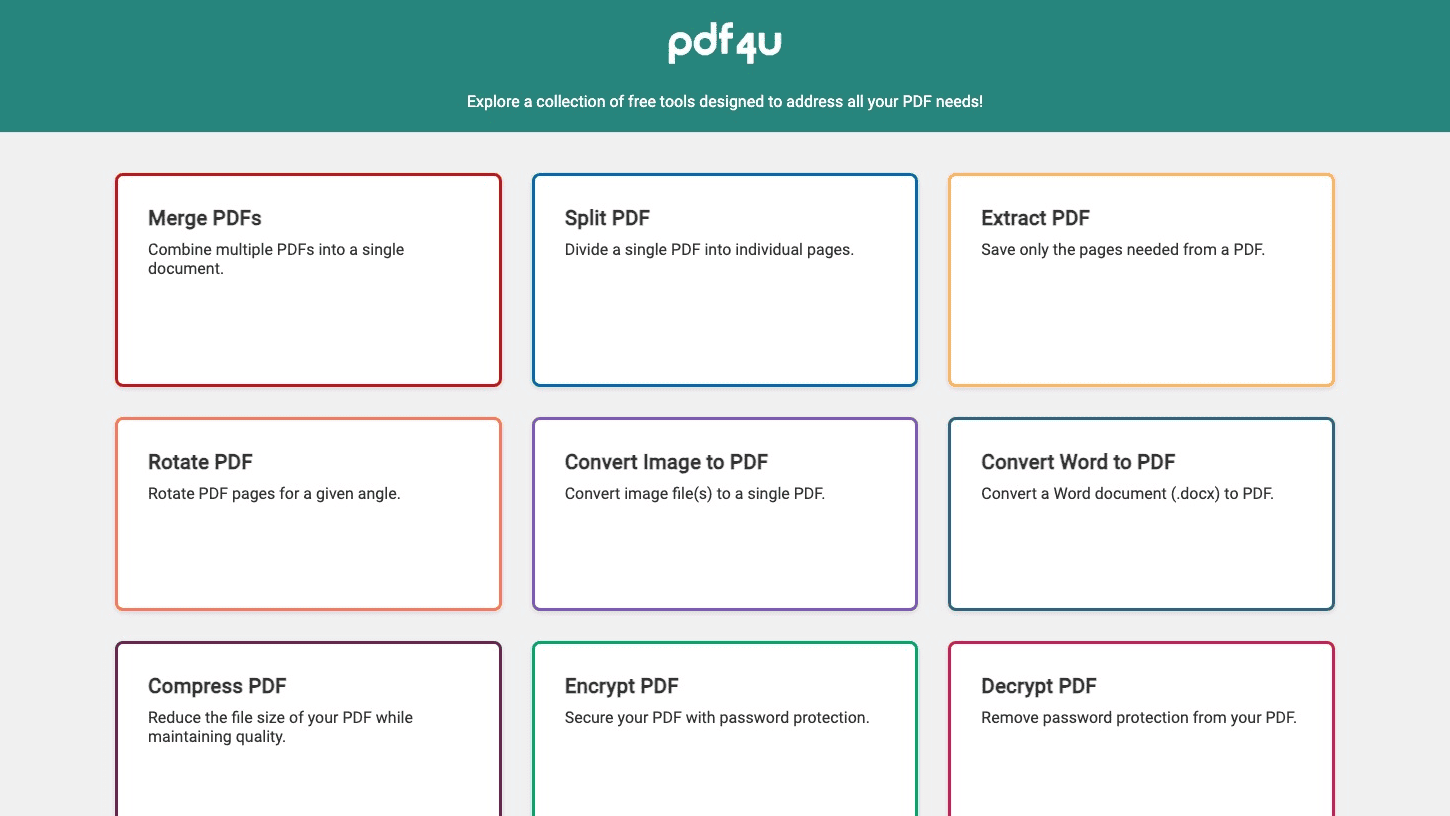
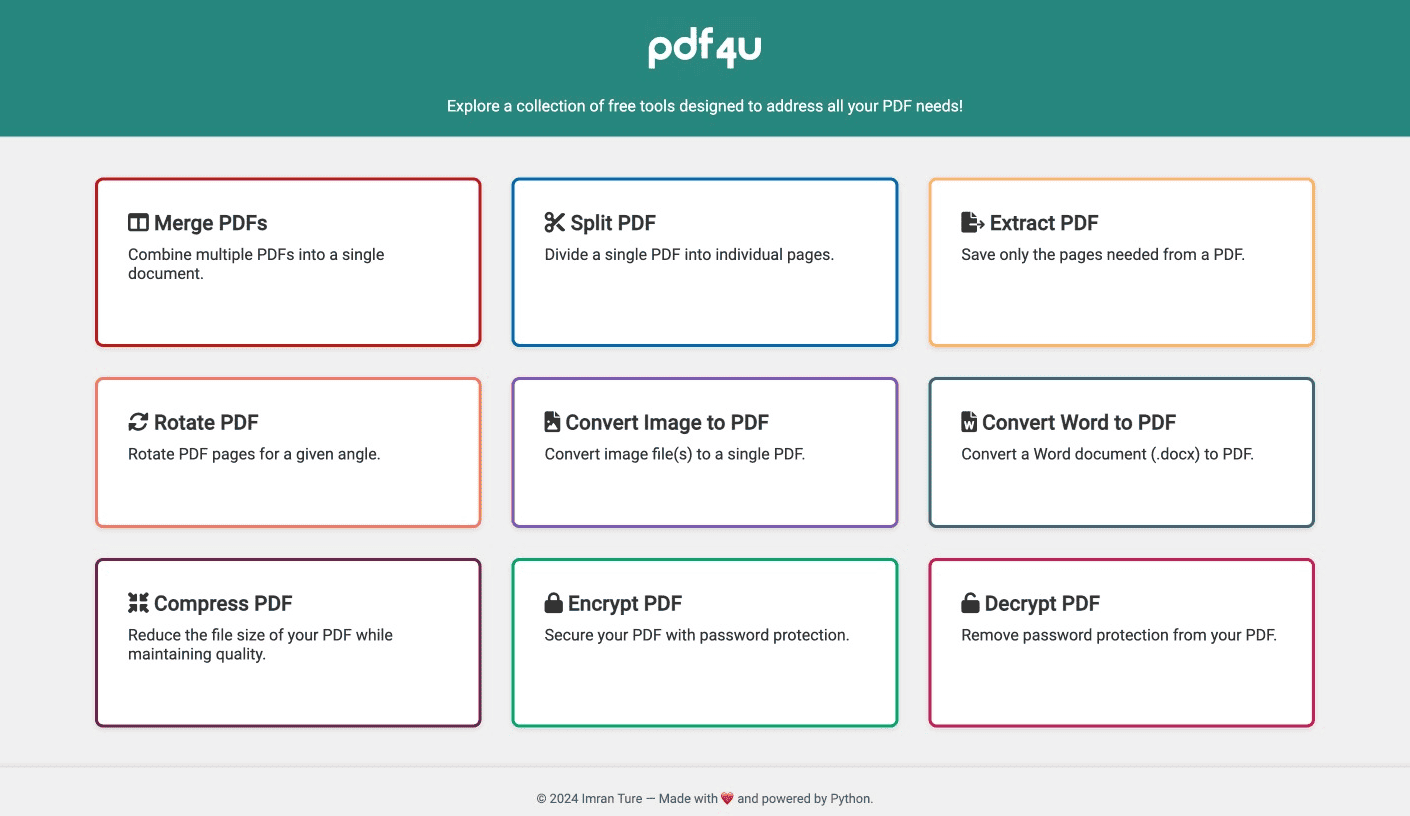
Made minor changes
- Resized images based on the screen sizes.
- Updated pdf4u screenshot image.

Changed region(s): [[0.0, 0.0919, 1.0, 1.0], [0.4369, 0.0306, 0.5617, 0.0919]]

diff --git a/js/scripts.min.js b/js/scripts.min.js
@@ -1,1 +1,1 @@
-function copyURI(e){e.preventDefault();const t=e.target.closest(".email"),i=t.querySelector("span"),a=document.createElement("textarea");a.innerHTML=t.getAttribute("href").replace("mailto:","");const n=a.value;navigator.clipboard.writeText(n).then(()=>{t.classList.add("clicked"),i.classList.add("hidden"),t.style.setProperty("--before-content",'"Copied!"'),setTimeout(()=>{t.classList.remove("clicked"),i.classList.remove("hidden"),t.style.removeProperty("--before-content")},3e3)},()=>{})}function setTheme(e){document.documentElement.setAttribute("data-theme",e),localStorage.setItem("theme",e);const t=document.querySelector('.theme-switch input[type="checkbox"]');"dark"===e?(document.body.classList.add("dark-mode"),t&&(t.checked=!0)):(document.body.classList.remove("dark-mode"),t&&(t.checked=!1))}function initializeTheme(){const e=localStorage.getItem("theme")||"light";setTheme(e)}function initializeEmailLink(){const e=document.getElementById("emailLink");e&&(e.href="mailto:&#105;&#109;&#114;&#097;&#110;@&#097;&#108;&#117;&#109;&#110;&#105&period;&#114;&#117;&#116;&#103;&#101;&#114;&#115&period;&#101;&#100;&#117;",e.removeEventListener("click",copyURI),e.addEventListener("click",copyURI))}document.addEventListener("DOMContentLoaded",()=>{const e={"e4-timestamper":{title:"E4 TimeStamper: GUI App for Automatic Timestamping and Analysis of Empatica E4 Data",cover_image:"/image/cover_e4.png",primary_image:"/image/e4-timestamper.gif",links:[{url:"https://github.com/imranture/E4-TimeStamper",text:'<i class="fab fa-github"></i> GitHub'}],tags:["Software Development","Time Series Analysis","Physiological Signals","Empatica E4"],shortDescription:"A user-friendly GUI application designed to facilitate researchers in adding timestamps to physiological signal data obtained from Empatica E4 wristbands.",description:'E4 TimeStamper is a user-friendly GUI application designed to facilitate researchers in adding timestamps to physiological signal data obtained from Empatica E4 wristbands. This tool allows for seamless extraction and precise timestamping of files, all in accordance with the chosen timezone and preferred date & time format. E4 TimeStamper, adopted and implemented by researchers worldwide in their studies<a href="https://www.igi-global.com/gateway/article/full-text-html/313181&riu=true" target="_blank" rel="noopener noreferrer"><sup>1</sup></a>, is available for both Windows and Mac operating systems.'},"emotion-recognition":{title:"Deep Emotion Recognition using Wearable Sensors",cover_image:"/image/cover_emotion.png",primary_image:"/image/model-accuracy.png",secondary_image:"",links:[{url:"",text:""}],tags:["Deep Learning","Machine Learning","Emotion Recognition","Physiological Signals","LSTM","CNN","Empatica E4"],shortDescription:"A deep learning based emotion recognition model for the classification of emotional states using physiological signals collected via wearables.",description:"Emotion recognition is an emerging interdisciplinary field that integrates methodologies from affective computing, sentiment analysis, signal processing, and machine learning. This project focuses on classifying emotions such as amusement and stress using physiological signals like heart rate and skin conductivity, collected via wearables. To build the model, a hybrid approach was employed that combines various deep learning architectures, including Convolutional Neural Networks (CNN) and Long Short-Term Memory (LSTM) networks. This approach is capable of accurately capturing changes in physiological signals to identify specific emotional states.<br>The performance of the model has been rigorously evaluated using a variety of metrics, including accuracy, precision, recall, and F1-score. To fine-tune the model's performance, hyperparameter tuning was conducted using grid search and Bayesian optimization techniques. The model achieved an accuracy rate of 92% under a 5-fold cross-validation setting. As wearable technology continues to evolve, this project serves as a significant contribution to the development of real-time affective computing systems that could be integrated into future generations of a wide range of wearable products, from smartwatches to health monitors."},"python-for-openintro":{title:" Python Implementation of OpenIntro",cover_image:"/image/cover_openintro.jpg",primary_image:"/image/openintro-python-official-page.png",secondary_image:"/image/openintro-python-labs.png",links:[{url:"https://www.imranture.com/labs/os/",text:'<i class="fas fa-link"></i> Labs'},{url:"https://openintro.info/stat/labs.php?stat_lab_software=Python%20(beta)",text:'<i class="fas fa-link"></i> OpenIntro',description:"Machine Learning Lab - Discover machine learning algorithms, projects, and tutorials."}],tags:["Statistics","Python"],shortDescription:"Official Python labs for OpenIntro Statistics.",description:"We developed the Python labs for OpenIntro Statistics, an open-source textbook for introductory statistics used at many universities (from Community Colleges to the Ivy League) around the world, to promote the understanding and application of statistical data analysis using Python. The labs are officially listed on the OpenIntro Statistics website."},"bbl-physiodb":{title:"BBL-PhysioDB : Data Hub for Entrepreneurship Assessment and Development Workshop",cover_image:"/image/cover_rmit.jpg",primary_image:"/image/bbl-physiodb.png",secondary_image:"/image/rmit-bbl.jpg",links:[{url:"",text:""}],tags:["Database Management","SQL","PostgreSQL","Django"],shortDescription:"A robust database designed for the Entrepreneurship Assessment and Development Workshop studies conducted at RMIT University.",description:"BBL-PhysioDB is a robust database, developed with Django and PostgreSQL, for the Entrepreneurship Assessment and Development Workshop studies conducted at RMIT's Behavioural Business Lab (BBL). The database can effectively manage data collected from over 150 participants, including entrepreneurs, artists, and professionals with diverse backgrounds. It has the capability to store extensive data collected through multiple lab experiment sessions, including physiological signal data recorded through E4 wristbands from Empatica, along with 200+ questionnaire responses providing demographic information and insights into participants' entrepreneurial engagement.<br><br>The database offers a user-friendly interface that simplifies navigation and enables robust search capabilities. Researchers can seamlessly query the database to explore findings from BBL studies. The database scheme can be leveraged by other researchers to address their own research needs."},"forecasting-translation":{title:"Translating Forecasting: Principles and Practice",cover_image:"/image/cover_fpp3.jpg",primary_image:"/image/fpp3.png",secondary_image:"",links:[{url:"https://otexts.com/fpp3/",text:'<i class="fas fa-link"></i> Link'}],tags:["Forecasting","R","RStudio"],shortDescription:"The initiative involves translating the popular textbook to broaden the accessibility and understanding of forecasting principles among Turkish speakers.",description:"The initiative involves translating the popular textbook to broaden the accessibility and understanding of forecasting principles among Turkish speakers. Alongside this effort, a suite of documents has been developed to facilitate the collaborative process among translation teams, ensuring efficient workflows and high-quality educational outcomes."},"melbourne-property-sales":{title:"Melbourne Property Sales: Visual Exploration of Housing Market Dynamics",cover_image:"/image/melbourne-property-sales.png",primary_image:"/image/melbourne-property-sales.png",secondary_image:"",links:[{url:"https://public.tableau.com/app/profile/imranture/viz/MelbournePropertySales_17051684571690/Dashboard",text:"Link"}],tags:["Data Visualization","Tableau"],shortDescription:"An interactive dashboard with a detailed visual overview of the city's real estate trends, based on historical sales data.",description:"Melbourne Property Sales is an interactive dashboard with a detailed visual overview of the city's real estate trends, based on historical sales data. The dashboard offers a range of visualizations, including average property prices over time, distributions of key property features, and regional price comparisons for various housing types. These visualizations highlight patterns in the Melbourne housing market dynamics, such as seasonal pricing trends and the common characteristics of sold properties."},"early-warning-system":{title:"Advancing Water Safety : Early Warning System to Monitor and Evaluate Drinking Water Quality",cover_image:"/image/early-warning-system.png",primary_image:"/image/early-warning-system.png",secondary_image:"",links:[{url:"",text:""}],tags:["Anomaly Detection","Statistical Quality Control"],shortDescription:"An hybrid approach to monitor and detect unexpected levels of multiple critical parameters.",description:"An early warning system was developed that can enhance the safety and quality of drinking water in Turkiye by identifying hazardous contaminants such as E. coli O157, anthrax, and ricin. Utilizing a hybrid approach that integrates various statistical methods like Z-score analysis, moving averages, control charts, and weighted voting, the system was designed to provide real-time monitoring and detect unexpected levels of multiple parameters, including temperature, pH, total organic carbon, conductivity, oxidation-reduction potential, free chlorine, and dissolved oxygen.<br><br>The idea with employing a multi-tiered approach is to facilitate early intervention for minor deviations while enabling immediate action for more severe anomalies. It has the potential for wide-ranging applications, not just limited to municipal water treatment plants but also extending to main storage and distribution lines, thereby serving as a critical tool with the capability to safeguard public health and environmental integrity."},pdf4u:{title:"pdf4u: Web-Based PDF Management Toolkit App",cover_image:"/image/pdf4u.png",primary_image:"/image/pdf4u.png",secondary_image:"",links:[{url:"https://pdf4u.onrender.com/",text:'<i class="fas fa-link"></i> Link'}],tags:["Web Development","HTML","CSS","JavaScript","Flask"],shortDescription:"A versatile web-based PDF management toolkit app.",description:"pdf4u is a versatile web-based PDF management toolkit app designed to handle a wide range of PDF operations, including merging, splitting, rotating, and extracting pages from PDF files. Developed using Flask for the backend, the application provides a user-friendly interface built with HTML, CSS, and JavaScript. Users can easily upload and manipulate files using an intuitive drag-and-drop feature. The toolkit is designed for extensibility, with additional functionalities like converting images to PDFs and more in development. This project demonstrates full-stack development skills, utilizing Python, Flask, and modern web technologies to create an efficient and robust tool for PDF solutions."},durcalc:{title:"DurCalc : Hassle-Free Calculation of Date and Time Durations",cover_image:"/image/durcalc.png",primary_image:"/image/durcalc.png",secondary_image:"",links:[{url:"https://github.com/imranture/durcalc",text:'<i class="fas fa-link"></i> Link'}],tags:["Web Development"],shortDescription:"A user-friendly web app to calculate the duration between dates and/or times.",description:"DurCalc is a web app designed to effortlessly calculate the duration between dates and/or times. With its user-friendly interface and intuitive functionality, DurCalc streamlines the process and calculates durations without any fuss."}},t=document.querySelector(".content");t&&Object.keys(e).forEach(i=>{const a=e[i],n=`\n                <div class="item">\n                    <a href="/project.html?id=${i}"><img src="${a.cover_image}" alt="${a.title}"></a>\n                    <h2>${a.title}</h2>\n                    <!-- <div class="tags">\n                        ${a.tags.map(e=>`<span>${e}</span>`).join(" ")}\n                    </div> -->\n                    <p>${a.shortDescription}</p>\n                    <a class="weblink" href="/project.html?id=${i}">Read more &#8594;</a>\n                </div>\n            `;t.innerHTML+=n});const i=new URLSearchParams(window.location.search),a=i.get("id");a&&fetch("/index.html").then(e=>e.text()).then(t=>{const i=new DOMParser,n=i.parseFromString(t,"text/html"),s=n.querySelector("#narrow-column").innerHTML;document.getElementById("narrow-column").innerHTML=s,initializeEmailLink();const o=e[a];if(o){const e=`\n                        <title>${o.title}</title>\n                        <h1 id="project-title">${o.title}</h1>\n                        <h4>Description</h4>\n                        <p class="project-description">${o.description}</p>\n                        <div id="image-container">\n                            <img id="primary-image" src="${o.primary_image}" alt="${o.title}">\n                            <img id="secondary-image" src="${o.secondary_image}" alt="">\n                        </div>  \n\n                        ${o.links.filter(e=>e.url&&e.text).length?`\n                            <h4>Links</h4>\n                            <div class="project-links">\n                                ${o.links.map(e=>`<a class="weblink" href="${e.url}" target="_blank" rel="noopener noreferrer">${e.text}</a>`).join(" ")} \n                            </div>`:""}\n\n                        <h4>Related Topics</h4>\n                        <div class="tags">\n                            ${o.tags.map(e=>`<span>${e}</span>`).join(" ")}\n                        </div>\n                    `;document.getElementById("project-content").innerHTML=e;document.getElementById("primary-image");const t=document.getElementById("secondary-image"),i=document.getElementById("image-container");o.secondary_image&&""!==o.secondary_image.trim()?(i.classList.add("double-image"),t.style.display="block",t.alt=`${o.title} - Secondary Image`):(i.classList.add("single-image"),t.style.display="none",t.alt="")}}),initializeEmailLink(),initializeTheme();const n=document.querySelector('.theme-switch input[type="checkbox"]');n&&n.addEventListener("change",function(e){setTheme(e.target.checked?"dark":"light")});var s=(new Date).getFullYear();document.getElementById("copyright-year").innerText=s});
+function copyURI(e){e.preventDefault();const t=e.target.closest(".email"),i=t.querySelector("span"),a=document.createElement("textarea");a.innerHTML=t.getAttribute("href").replace("mailto:","");const n=a.value;navigator.clipboard.writeText(n).then(()=>{t.classList.add("clicked"),i.classList.add("hidden"),t.style.setProperty("--before-content",'"Copied!"'),setTimeout(()=>{t.classList.remove("clicked"),i.classList.remove("hidden"),t.style.removeProperty("--before-content")},3e3)},()=>{})}function setTheme(e){document.documentElement.setAttribute("data-theme",e),localStorage.setItem("theme",e);const t=document.querySelector('.theme-switch input[type="checkbox"]');"dark"===e?(document.body.classList.add("dark-mode"),t&&(t.checked=!0)):(document.body.classList.remove("dark-mode"),t&&(t.checked=!1))}function initializeTheme(){const e=localStorage.getItem("theme")||"light";setTheme(e)}function initializeEmailLink(){const e=document.getElementById("emailLink");e&&(e.href="mailto:&#105;&#109;&#114;&#097;&#110;@&#097;&#108;&#117;&#109;&#110;&#105&period;&#114;&#117;&#116;&#103;&#101;&#114;&#115&period;&#101;&#100;&#117;",e.removeEventListener("click",copyURI),e.addEventListener("click",copyURI))}document.addEventListener("DOMContentLoaded",()=>{const e={"e4-timestamper":{title:"E4 TimeStamper: GUI App for Automatic Timestamping and Analysis of Empatica E4 Data",cover_image:"/image/cover_e4.png",primary_image:"/image/e4-timestamper.gif",links:[{url:"https://github.com/imranture/E4-TimeStamper",text:'<i class="fab fa-github"></i> GitHub'}],tags:["Software Development","Time Series Analysis","Physiological Signals","Empatica E4"],shortDescription:"A user-friendly GUI application designed to facilitate researchers in adding timestamps to physiological signal data obtained from Empatica E4 wristbands.",description:'E4 TimeStamper is a user-friendly GUI application designed to facilitate researchers in adding timestamps to physiological signal data obtained from Empatica E4 wristbands. This tool allows for seamless extraction and precise timestamping of files, all in accordance with the chosen timezone and preferred date & time format. E4 TimeStamper, adopted and implemented by researchers worldwide in their studies<a href="https://www.igi-global.com/gateway/article/full-text-html/313181&riu=true" target="_blank" rel="noopener noreferrer"><sup>1</sup></a>, is available for both Windows and Mac operating systems.'},"emotion-recognition":{title:"Deep Emotion Recognition using Wearable Sensors",cover_image:"/image/cover_emotion.png",primary_image:"/image/model-accuracy.png",secondary_image:"",links:[{url:"",text:""}],tags:["Deep Learning","Machine Learning","Emotion Recognition","Physiological Signals","LSTM","CNN","Empatica E4"],shortDescription:"A deep learning based emotion recognition model for the classification of emotional states using physiological signals collected via wearables.",description:"Emotion recognition is an emerging interdisciplinary field that integrates methodologies from affective computing, sentiment analysis, signal processing, and machine learning. This project focuses on classifying emotions such as amusement and stress using physiological signals like heart rate and skin conductivity, collected via wearables. To build the model, a hybrid approach was employed that combines various deep learning architectures, including Convolutional Neural Networks (CNN) and Long Short-Term Memory (LSTM) networks. This approach is capable of accurately capturing changes in physiological signals to identify specific emotional states.<br>The performance of the model has been rigorously evaluated using a variety of metrics, including accuracy, precision, recall, and F1-score. To fine-tune the model's performance, hyperparameter tuning was conducted using grid search and Bayesian optimization techniques. The model achieved an accuracy rate of 92% under a 5-fold cross-validation setting. As wearable technology continues to evolve, this project serves as a significant contribution to the development of real-time affective computing systems that could be integrated into future generations of a wide range of wearable products, from smartwatches to health monitors."},"python-for-openintro":{title:" Python Implementation of OpenIntro",cover_image:"/image/cover_openintro.jpg",primary_image:"/image/openintro-python-official-page.png",secondary_image:"/image/openintro-python-labs.png",links:[{url:"https://www.imranture.com/labs/os/",text:'<i class="fas fa-link"></i> Labs'},{url:"https://openintro.info/stat/labs.php?stat_lab_software=Python%20(beta)",text:'<i class="fas fa-link"></i> OpenIntro',description:"Machine Learning Lab - Discover machine learning algorithms, projects, and tutorials."}],tags:["Statistics","Python"],shortDescription:"Official Python labs for OpenIntro Statistics.",description:"We developed the Python labs for OpenIntro Statistics, an open-source textbook for introductory statistics used at many universities (from Community Colleges to the Ivy League) around the world, to promote the understanding and application of statistical data analysis using Python. The labs are officially listed on the OpenIntro Statistics website."},"bbl-physiodb":{title:"BBL-PhysioDB : Data Hub for Entrepreneurship Assessment and Development Workshop",cover_image:"/image/cover_rmit.jpg",primary_image:"/image/bbl-physiodb.png",secondary_image:"/image/rmit-bbl.jpg",links:[{url:"",text:""}],tags:["Database Management","SQL","PostgreSQL","Django"],shortDescription:"A robust database designed for the Entrepreneurship Assessment and Development Workshop studies conducted at RMIT University.",description:"BBL-PhysioDB is a robust database, developed with Django and PostgreSQL, for the Entrepreneurship Assessment and Development Workshop studies conducted at RMIT's Behavioural Business Lab (BBL). The database can effectively manage data collected from over 150 participants, including entrepreneurs, artists, and professionals with diverse backgrounds. It has the capability to store extensive data collected through multiple lab experiment sessions, including physiological signal data recorded through E4 wristbands from Empatica, along with 200+ questionnaire responses providing demographic information and insights into participants' entrepreneurial engagement.<br><br>The database offers a user-friendly interface that simplifies navigation and enables robust search capabilities. Researchers can seamlessly query the database to explore findings from BBL studies. The database scheme can be leveraged by other researchers to address their own research needs."},"forecasting-translation":{title:"Translating Forecasting: Principles and Practice",cover_image:"/image/cover_fpp3.jpg",primary_image:"/image/fpp3.png",secondary_image:"",links:[{url:"https://otexts.com/fpp3/",text:'<i class="fas fa-link"></i> Link'}],tags:["Forecasting","R","RStudio"],shortDescription:"The initiative involves translating the popular textbook to broaden the accessibility and understanding of forecasting principles among Turkish speakers.",description:"The initiative involves translating the popular textbook to broaden the accessibility and understanding of forecasting principles among Turkish speakers. Alongside this effort, a suite of documents has been developed to facilitate the collaborative process among translation teams, ensuring efficient workflows and high-quality educational outcomes."},"melbourne-property-sales":{title:"Melbourne Property Sales: Visual Exploration of Housing Market Dynamics",cover_image:"/image/melbourne-property-sales.png",primary_image:"/image/melbourne-property-sales.png",secondary_image:"",links:[{url:"https://public.tableau.com/app/profile/imranture/viz/MelbournePropertySales_17051684571690/Dashboard",text:'<i class="fas fa-link"></i> Link'}],tags:["Data Visualization","Tableau"],shortDescription:"An interactive dashboard with a detailed visual overview of the city's real estate trends, based on historical sales data.",description:"Melbourne Property Sales is an interactive dashboard with a detailed visual overview of the city's real estate trends, based on historical sales data. The dashboard offers a range of visualizations, including average property prices over time, distributions of key property features, and regional price comparisons for various housing types. These visualizations highlight patterns in the Melbourne housing market dynamics, such as seasonal pricing trends and the common characteristics of sold properties."},"early-warning-system":{title:"Advancing Water Safety : Early Warning System to Monitor and Evaluate Drinking Water Quality",cover_image:"/image/early-warning-system.png",primary_image:"/image/early-warning-system.png",secondary_image:"",links:[{url:"",text:""}],tags:["Anomaly Detection","Statistical Quality Control"],shortDescription:"An hybrid approach to monitor and detect unexpected levels of multiple critical parameters.",description:"An early warning system was developed that can enhance the safety and quality of drinking water in Turkiye by identifying hazardous contaminants such as E. coli O157, anthrax, and ricin. Utilizing a hybrid approach that integrates various statistical methods like Z-score analysis, moving averages, control charts, and weighted voting, the system was designed to provide real-time monitoring and detect unexpected levels of multiple parameters, including temperature, pH, total organic carbon, conductivity, oxidation-reduction potential, free chlorine, and dissolved oxygen.<br><br>The idea with employing a multi-tiered approach is to facilitate early intervention for minor deviations while enabling immediate action for more severe anomalies. It has the potential for wide-ranging applications, not just limited to municipal water treatment plants but also extending to main storage and distribution lines, thereby serving as a critical tool with the capability to safeguard public health and environmental integrity."},pdf4u:{title:"pdf4u: Web-Based PDF Management Toolkit App",cover_image:"/image/pdf4u.png",primary_image:"/image/pdf4u.png",secondary_image:"",links:[{url:"https://pdf4u.onrender.com/",text:'<i class="fas fa-link"></i> Link'}],tags:["Web Development","HTML","CSS","JavaScript","Flask"],shortDescription:"A versatile web-based PDF management toolkit app.",description:"pdf4u is a versatile web-based PDF management toolkit app designed to handle a wide range of PDF operations, including merging, splitting, rotating, and extracting pages from PDF files. Developed using Flask for the backend, the application provides a user-friendly interface built with HTML, CSS, and JavaScript. Users can easily upload and manipulate files using an intuitive drag-and-drop feature. The toolkit is designed for extensibility, with additional functionalities like converting images to PDFs and more in development. This project demonstrates full-stack development skills, utilizing Python, Flask, and modern web technologies to create an efficient and robust tool for PDF solutions."},durcalc:{title:"DurCalc : Hassle-Free Calculation of Date and Time Durations",cover_image:"/image/durcalc.png",primary_image:"/image/durcalc.png",secondary_image:"",links:[{url:"https://github.com/imranture/durcalc",text:'<i class="fas fa-link"></i> Link'}],tags:["Web Development"],shortDescription:"A user-friendly web app to calculate the duration between dates and/or times.",description:"DurCalc is a web app designed to effortlessly calculate the duration between dates and/or times. With its user-friendly interface and intuitive functionality, DurCalc streamlines the process and calculates durations without any fuss."}},t=document.querySelector(".content");t&&Object.keys(e).forEach(i=>{const a=e[i],n=`\n                <div class="item">\n                    <a href="/project.html?id=${i}"><img src="${a.cover_image}" alt="${a.title}"></a>\n                    <h2>${a.title}</h2>\n                    <!-- <div class="tags">\n                        ${a.tags.map(e=>`<span>${e}</span>`).join(" ")}\n                    </div> -->\n                    <p>${a.shortDescription}</p>\n                    <a class="weblink" href="/project.html?id=${i}">Read more &#8594;</a>\n                </div>\n            `;t.innerHTML+=n});const i=new URLSearchParams(window.location.search),a=i.get("id");a&&fetch("/index.html").then(e=>e.text()).then(t=>{const i=new DOMParser,n=i.parseFromString(t,"text/html"),s=n.querySelector("#narrow-column").innerHTML;document.getElementById("narrow-column").innerHTML=s,initializeEmailLink();const o=e[a];if(o){const e=`\n                        <title>${o.title}</title>\n                        <h1 id="project-title">${o.title}</h1>\n                        <h4>Description</h4>\n                        <p class="project-description">${o.description}</p>\n                        <div id="image-container">\n                            <img id="primary-image" src="${o.primary_image}" alt="${o.title}">\n                            <img id="secondary-image" src="${o.secondary_image}" alt="">\n                        </div>  \n\n                        ${o.links.filter(e=>e.url&&e.text).length?`\n                            <h4>Links</h4>\n                            <div class="project-links">\n                                ${o.links.map(e=>`<a class="weblink" href="${e.url}" target="_blank" rel="noopener noreferrer">${e.text}</a>`).join(" ")} \n                            </div>`:""}\n\n                        <h4>Related Topics</h4>\n                        <div class="tags">\n                            ${o.tags.map(e=>`<span>${e}</span>`).join(" ")}\n                        </div>\n                    `;document.getElementById("project-content").innerHTML=e;document.getElementById("primary-image");const t=document.getElementById("secondary-image"),i=document.getElementById("image-container");o.secondary_image&&""!==o.secondary_image.trim()?(i.classList.add("double-image"),t.style.display="block",t.alt=`${o.title} - Secondary Image`):(i.classList.add("single-image"),t.style.display="none",t.alt="")}}),initializeEmailLink(),initializeTheme();const n=document.querySelector('.theme-switch input[type="checkbox"]');n&&n.addEventListener("change",function(e){setTheme(e.target.checked?"dark":"light")});var s=(new Date).getFullYear();document.getElementById("copyright-year").innerText=s});

diff --git a/css/styles.min.css b/css/styles.min.css
@@ -1,1 +1,1 @@
-@import url(https://fonts.googleapis.com/css2?family=Lato:wght@400;700&display=swap);*{box-sizing:border-box;margin:0;padding:0}body,html{height:100%;font-family:Lato,sans-serif;background-color:var(--bg-color);color:var(--text-color);overscroll-behavior:none}:root{--bg-color:#f0f1f2;--text-color:#222;--primary-color:#444;--secondary-color:#666;--tertiary-color:#999;--link-color:#007BFF;--link-hover-color:#004999;--tag-color:#e6e6fa;--tag-bg-color:#007BFF;--github-color:#f0f1f2;--github-bg-color:#7d258d;--linkedin-color:#f0f1f2;--linkedin-bg-color:#0077B5}body.dark-mode{--bg-color:#152c34;--text-color:#f3f3f3;--primary-color:#f9f9f9;--secondary-color:#bcbcbc;--tertiary-color:#999;--link-color:#9acaff;--link-hover-color:#007BFF;--tag-color:#007BFF;--tag-bg-color:#e6e6fa;--github-color:#7d258d;--github-bg-color:#f0f1f2;--linkedin-color:#0077B5;--linkedin-bg-color:#f0f1f2}body.dark-mode .container{background-color:var(--bg-color)}.container{display:flex;flex-wrap:wrap;min-height:100vh;padding:20px}.column{padding:10px}.narrow{flex:1 1 20%;background-color:var(--bg-color);padding:20px;width:100%}.profile-pic{width:120px;height:120px;border-radius:50%;margin-bottom:0}h2{color:var(--primary-color);font-size:1.4em;margin:10px 0;font-weight:700}h3{font-size:1em;color:var(--secondary-color);margin:5px 0}.location{font-size:.8em;color:var(--secondary-color);margin-bottom:15px}a{color:var(--link-color);text-decoration:none}a.weblink:link,a.weblink:visited{text-decoration:none;padding-bottom:.2rem;background:linear-gradient(to right,var(--bg-color),var(--bg-color),var(--bg-color)),linear-gradient(to right,rgba(250,0,0,1),#e29d26,rgba(0,100,200,1),#51416b);background-size:100% 3px,0 3px;background-position:100% 100%,0 100%;background-repeat:no-repeat;transition:background-size 1s}a.weblink:hover{color:var(--link-color);background-size:0 3px,100% 3px}social-links{margin-bottom:15px}.social-links a{display:inline-flex;justify-content:center;align-items:center;width:25px;height:25px;border-radius:50%;color:#fff;text-align:center;margin:5px}.social-links a.linkedin{color:var(--linkedin-color);background-color:var(--linkedin-bg-color)}.social-links a.linkedin:hover{color:#fff}.social-links a.github{color:var(--github-color);background-color:var(--github-bg-color)}.social-links a.github:hover{color:#fff}.social-links a i{vertical-align:middle}.social-links a:hover{background-color:#222}.email span.hidden{display:none}.email:hover span{display:none}.email:hover::before{content:"Click to copy"}.email.clicked::before{content:var(--before-content, "Copied!")}.email.clicked span{display:none}.section{margin-top:20px;text-align:left}.section h4{font-size:.95em;color:var(--secondary-color);font-weight:700;margin-bottom:10px}.section p{font-size:.9em;color:var(--text-color);line-height:1.3em}.tags{display:flex;flex-wrap:wrap;gap:5px}.tags span{background-color:var(--tag-bg-color);color:var(--tag-color);padding:3px 5px;border-radius:10px;font-size:.7em;display:inline-block}.tags a{text-decoration:none;color:inherit}.tags a:hover{text-decoration:none}.wide{flex:1 1 80%;background-color:var(--bg-color);padding:20px 20px 20px 40px}.wide h1{font-size:1em;color:var(--secondary-color);margin:0 0 25px 0}.content{display:grid;grid-template-columns:repeat(2,1fr);gap:20px}#project-content>div,.item{background-color:var(--bg-color);padding:0;margin-bottom:30px}.item img{width:70%;height:auto;border:1px solid var(--tertiary-color);border-radius:10px;margin-bottom:0;background-color:#ffe07f}#project-content img{border:1px solid var(--tertiary-color);border-radius:8px;margin-bottom:0}#project-content h1,.item h2{font-size:1.2em;font-weight:700;color:var(--text-color)}.item h2{margin:10px 0}#project-content h1{margin:0}.item h2,.item p{width:80%}#project-content h4{color:var(--secondary-color);font-size:.9em;margin:30px 0 10px 0}#project-content .tags,.item .tags{display:flex;flex-wrap:wrap;gap:5px;margin:0}#project-content .tags span,.item .tags span{background-color:var(--tag-bg-color);color:var(--tag-color);padding:5px 8px;border-radius:10px;font-size:.8em}.item p{font-size:1em;margin:5px 0;color:var(--primary-color)}#project-content p{font-size:1.05em;line-height:1.4em;margin-bottom:20px;color:var(--text-color)}.project-description{width:70%;text-align:justify}br{display:block;content:"";margin-top:10px}#project-content a,.item a{color:var(--link-color);text-decoration:none;font-size:.9em}#project-content a:hover,.item a:hover{text-decoration:none}.project-links{margin:5px 0}.project-links a{margin-right:15px}button{position:relative;color:var(--tertiary-color);background-color:var(--bg-color);border:1px solid var(--tertiary-color);border-radius:20px;cursor:pointer;font-size:.9em;padding:5px 10px;text-decoration:none;display:inline-block;margin-bottom:30px;overflow:hidden;z-index:1;transition:color .4s ease}button::before{content:'';position:absolute;top:0;right:-100%;bottom:0;width:100%;background-color:var(--tag-bg-color);z-index:-1;transition:right .8s ease}button:hover{color:var(--bg-color)}button:hover::before{right:0}footer{font-size:.8em;width:auto;float:left;position:fixed;bottom:.5em;-webkit-font-smoothing:subpixel-antialiased}@media (max-width:1100px){.content{grid-template-columns:1fr}.wide{padding:20px}.item h2,.item p{width:90%}.project-description{width:100%}footer{text-align:center}}@media (min-width:989px){.narrow{position:fixed;width:20%;top:20px;left:20px;height:calc(100vh - 40px)}.wide{margin-left:22%;width:calc(100% - 22%)}hr{display:none}}@media (max-width:988px){body{padding:0}.container{flex-direction:column;padding:10px}hr{border:.01em dashed var(--text-color)}.project-page #narrow-column{display:none}.narrow{position:static;margin-bottom:25px}.wide{margin-left:0;margin-top:20px}.content{grid-template-columns:1fr}footer{float:none;position:static;width:auto}}#image-container{display:flex;flex-wrap:wrap}.single-image #primary-image{width:40%;height:auto}.single-image #secondary-image{display:none}.double-image #primary-image,.double-image #secondary-image{width:35%;height:auto}.double-image #primary-image{margin-right:2%}@media (max-width:1300px){.single-image #primary-image{width:60%}.double-image #primary-image{width:60%;margin-bottom:2%}.double-image #secondary-image{width:60%}}@media (max-width:900px){#image-container{flex-direction:column;align-items:center}.single-image #primary-image{width:100%}.double-image #primary-image{width:90%;margin-right:0}.double-image #secondary-image{width:90%}}@media (max-width:750px){.double-image #primary-image{width:95%}.double-image #secondary-image{width:95%}}sup{font-size:.9em;font-weight:700}.theme-switch-wrapper{position:absolute;top:10px;right:10px;z-index:1000}.theme-switch{display:inline-block;height:15px;position:relative;width:30px}.theme-switch input{display:none}.slider{background-color:#ccc;bottom:0;cursor:pointer;left:0;position:absolute;right:0;top:0;transition:.4s}.slider:before{background-color:#fff;bottom:2px;content:"";height:11px;left:2px;position:absolute;transition:.4s;width:11px}input:checked+.slider{background-color:var(--tag-color)}input:checked+.slider:before{transform:translateX(15px)}.slider.round{border-radius:34px}.slider.round:before{border-radius:50%}
+@import url(https://fonts.googleapis.com/css2?family=Lato:wght@400;700&display=swap);*{box-sizing:border-box;margin:0;padding:0}body,html{height:100%;font-family:Lato,sans-serif;background-color:var(--bg-color);color:var(--text-color);overscroll-behavior:none}:root{--bg-color:#f0f1f2;--text-color:#222;--primary-color:#444;--secondary-color:#666;--tertiary-color:#999;--link-color:#007BFF;--link-hover-color:#004999;--tag-color:#e6e6fa;--tag-bg-color:#007BFF;--github-color:#f0f1f2;--github-bg-color:#7d258d;--linkedin-color:#f0f1f2;--linkedin-bg-color:#0077B5}body.dark-mode{--bg-color:#152c34;--text-color:#f3f3f3;--primary-color:#f9f9f9;--secondary-color:#bcbcbc;--tertiary-color:#999;--link-color:#9acaff;--link-hover-color:#007BFF;--tag-color:#007BFF;--tag-bg-color:#e6e6fa;--github-color:#7d258d;--github-bg-color:#f0f1f2;--linkedin-color:#0077B5;--linkedin-bg-color:#f0f1f2}body.dark-mode .container{background-color:var(--bg-color)}.container{display:flex;flex-wrap:wrap;min-height:100vh;padding:20px}.column{padding:10px}.narrow{flex:1 1 20%;background-color:var(--bg-color);padding:20px;width:100%}.profile-pic{width:120px;height:120px;border-radius:50%;margin-bottom:0}h2{color:var(--primary-color);font-size:1.4em;margin:10px 0;font-weight:700}h3{font-size:1em;color:var(--secondary-color);margin:5px 0}.location{font-size:.8em;color:var(--secondary-color);margin-bottom:15px}a{color:var(--link-color);text-decoration:none}a.weblink:link,a.weblink:visited{text-decoration:none;padding-bottom:.2rem;background:linear-gradient(to right,var(--bg-color),var(--bg-color),var(--bg-color)),linear-gradient(to right,rgba(250,0,0,1),#e29d26,rgba(0,100,200,1),#51416b);background-size:100% 3px,0 3px;background-position:100% 100%,0 100%;background-repeat:no-repeat;transition:background-size 1s}a.weblink:hover{color:var(--link-color);background-size:0 3px,100% 3px}social-links{margin-bottom:15px}.social-links a{display:inline-flex;justify-content:center;align-items:center;width:25px;height:25px;border-radius:50%;color:#fff;text-align:center;margin:5px}.social-links a.linkedin{color:var(--linkedin-color);background-color:var(--linkedin-bg-color)}.social-links a.linkedin:hover{color:#fff}.social-links a.github{color:var(--github-color);background-color:var(--github-bg-color)}.social-links a.github:hover{color:#fff}.social-links a i{vertical-align:middle}.social-links a:hover{background-color:#222}.email span.hidden{display:none}.email:hover span{display:none}.email:hover::before{content:"Click to copy"}.email.clicked::before{content:var(--before-content, "Copied!")}.email.clicked span{display:none}.section{margin-top:20px;text-align:left}.section h4{font-size:.95em;color:var(--secondary-color);font-weight:700;margin-bottom:10px}.section p{font-size:.9em;color:var(--text-color);line-height:1.3em}.tags{display:flex;flex-wrap:wrap;gap:5px}.tags span{background-color:var(--tag-bg-color);color:var(--tag-color);padding:3px 5px;border-radius:10px;font-size:.7em;display:inline-block}.tags a{text-decoration:none;color:inherit}.tags a:hover{text-decoration:none}.wide{flex:1 1 80%;background-color:var(--bg-color);padding:20px 20px 20px 40px}.wide h1{font-size:1em;color:var(--secondary-color);margin:0 0 25px 0}.content{display:grid;grid-template-columns:repeat(2,1fr);gap:20px}#project-content>div,.item{background-color:var(--bg-color);padding:0;margin-bottom:30px}.item img{width:70%;height:auto;border:1px solid var(--tertiary-color);border-radius:10px;margin-bottom:0;background-color:#ffe07f}#project-content img{border:1px solid var(--tertiary-color);border-radius:8px;margin-bottom:0}#project-content h1,.item h2{font-size:1.2em;font-weight:700;color:var(--text-color)}.item h2{margin:10px 0}#project-content h1{margin:0}.item h2,.item p{width:80%}#project-content h4{color:var(--secondary-color);font-size:.9em;margin:30px 0 10px 0}#project-content .tags,.item .tags{display:flex;flex-wrap:wrap;gap:5px;margin:0}#project-content .tags span,.item .tags span{background-color:var(--tag-bg-color);color:var(--tag-color);padding:5px 8px;border-radius:10px;font-size:.8em}.item p{font-size:1em;margin:5px 0;color:var(--primary-color)}#project-content p{font-size:1.05em;line-height:1.4em;margin-bottom:20px;color:var(--text-color)}.project-description{width:70%;text-align:justify}br{display:block;content:"";margin-top:10px}#project-content a,.item a{color:var(--link-color);text-decoration:none;font-size:.9em}#project-content a:hover,.item a:hover{text-decoration:none}.project-links{margin:5px 0}.project-links a{margin-right:15px}button{position:relative;color:var(--tertiary-color);background-color:var(--bg-color);border:1px solid var(--tertiary-color);border-radius:20px;cursor:pointer;font-size:.9em;padding:5px 10px;text-decoration:none;display:inline-block;margin-bottom:30px;overflow:hidden;z-index:1;transition:color .4s ease}button::before{content:'';position:absolute;top:0;right:-100%;bottom:0;width:100%;background-color:var(--tag-bg-color);z-index:-1;transition:right .8s ease}button:hover{color:var(--bg-color)}button:hover::before{right:0}footer{font-size:.8em;width:auto;float:left;position:fixed;bottom:.5em;-webkit-font-smoothing:subpixel-antialiased}@media (max-width:1100px){.content{grid-template-columns:1fr}.wide{padding:20px}.item h2,.item p{width:90%}.project-description{width:100%}footer{text-align:center}}@media (min-width:989px){.narrow{position:fixed;width:20%;top:20px;left:20px;height:calc(100vh - 40px)}.wide{margin-left:22%;width:calc(100% - 22%)}hr{display:none}}@media (max-width:988px){body{padding:0}.container{flex-direction:column;padding:10px}hr{border:.01em dashed var(--text-color)}.project-page #narrow-column{display:none}.narrow{position:static;margin-bottom:25px}.wide{margin-left:0;margin-top:20px}.content{grid-template-columns:1fr}footer{float:none;position:static;width:auto}}#image-container{display:flex;flex-wrap:wrap}.single-image #primary-image{width:40%;height:auto}.single-image #secondary-image{display:none}.double-image #primary-image,.double-image #secondary-image{width:35%;height:auto}.double-image #primary-image{margin-right:2%}@media (max-width:1600px){.item img{width:75%}.single-image #primary-image{width:55%}.double-image #primary-image{width:50%;margin-bottom:2%}.double-image #secondary-image{width:50%}}@media (max-width:900px){#image-container{flex-direction:column;align-items:center}.single-image #primary-image{width:100%}.double-image #primary-image{width:90%;margin-right:0}.double-image #secondary-image{width:90%}}@media (max-width:750px){.double-image #primary-image{width:95%}.double-image #secondary-image{width:95%}}sup{font-size:.9em;font-weight:700}.theme-switch-wrapper{position:absolute;top:10px;right:10px;z-index:1000}.theme-switch{display:inline-block;height:15px;position:relative;width:30px}.theme-switch input{display:none}.slider{background-color:#ccc;bottom:0;cursor:pointer;left:0;position:absolute;right:0;top:0;transition:.4s}.slider:before{background-color:#fff;bottom:2px;content:"";height:11px;left:2px;position:absolute;transition:.4s;width:11px}input:checked+.slider{background-color:var(--tag-color)}input:checked+.slider:before{transform:translateX(15px)}.slider.round{border-radius:34px}.slider.round:before{border-radius:50%}
